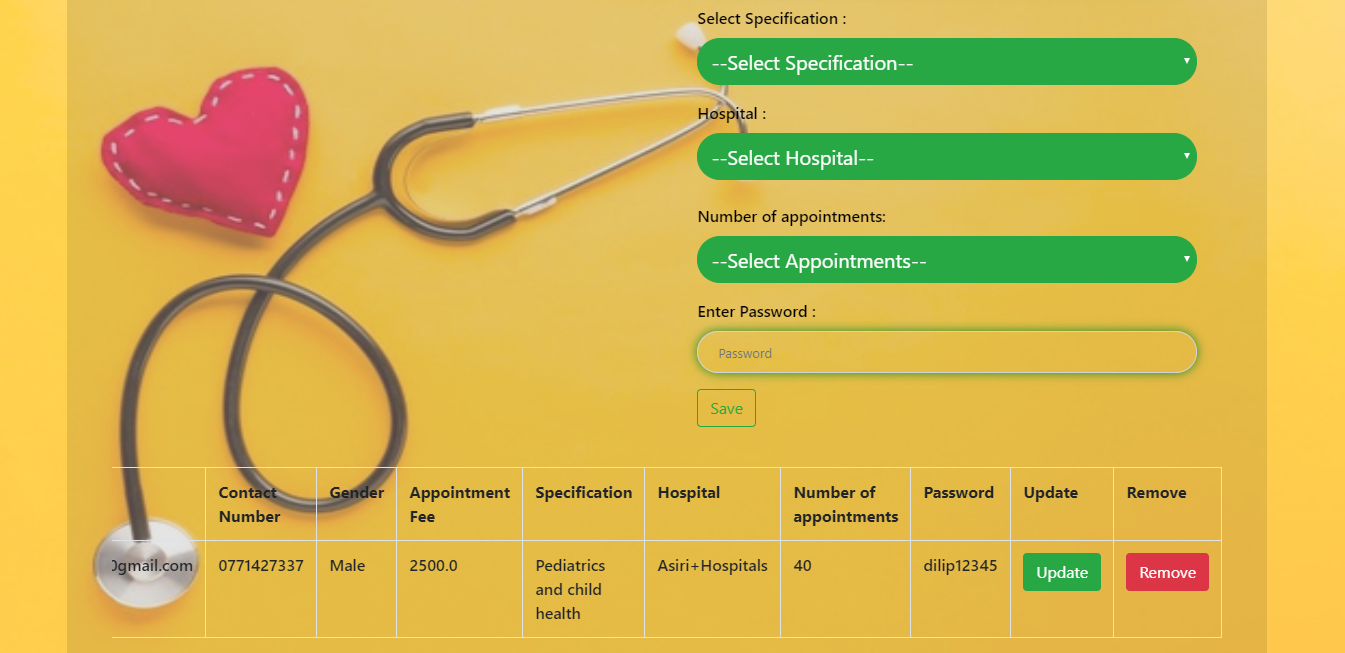
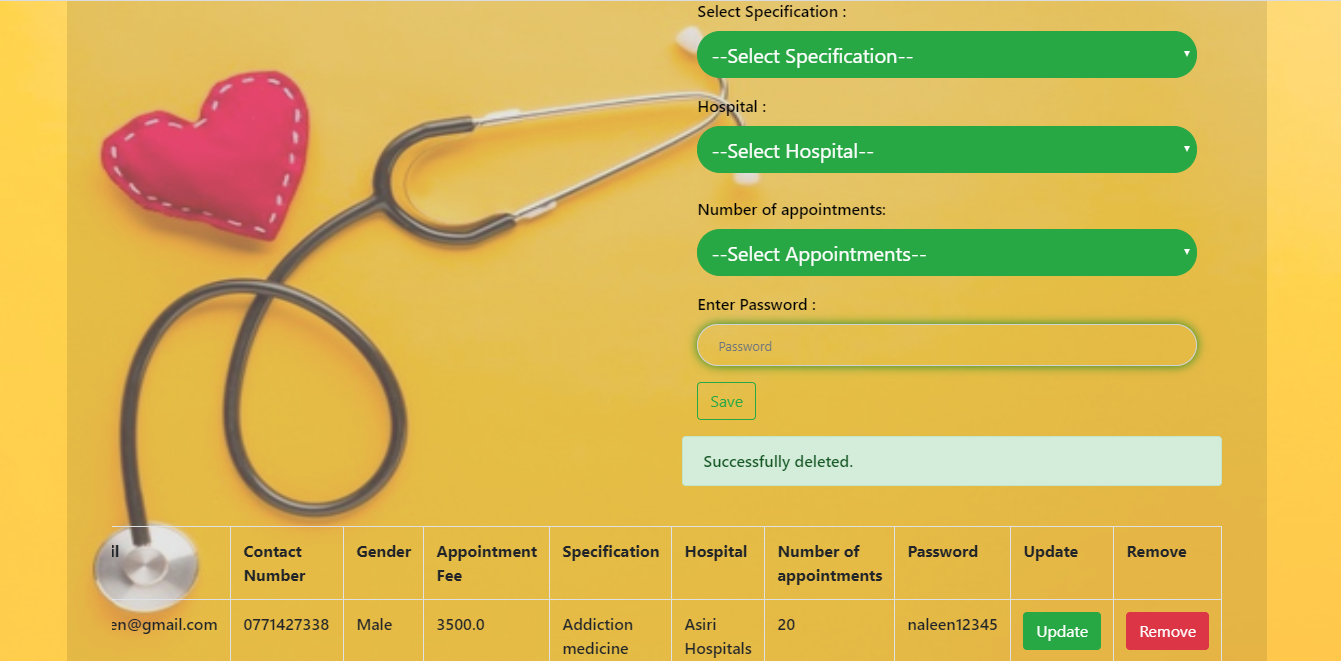
String Error fixing

diff --git a/Doctor_PAF_Practical/src/DocPackage/DoctorAPI.java b/Doctor_PAF_Practical/src/DocPackage/DoctorAPI.java
@@ -65,7 +65,7 @@ public class DoctorAPI extends HttpServlet {
 												paras.get("docEmail").toString(),
 												paras.get("docContact").toString(),
 												paras.get("docFee").toString(), 
-												paras.get("docHospital").toString(), 
+												paras.get("docHospital").toString().replace("+", " ").replace("%2C", ",").replace("%3A", ":"), 
 												paras.get("docNumAppointments").toString(), 
 												paras.get("docPassword").toString()); 												
 		response.getWriter().write(output);
